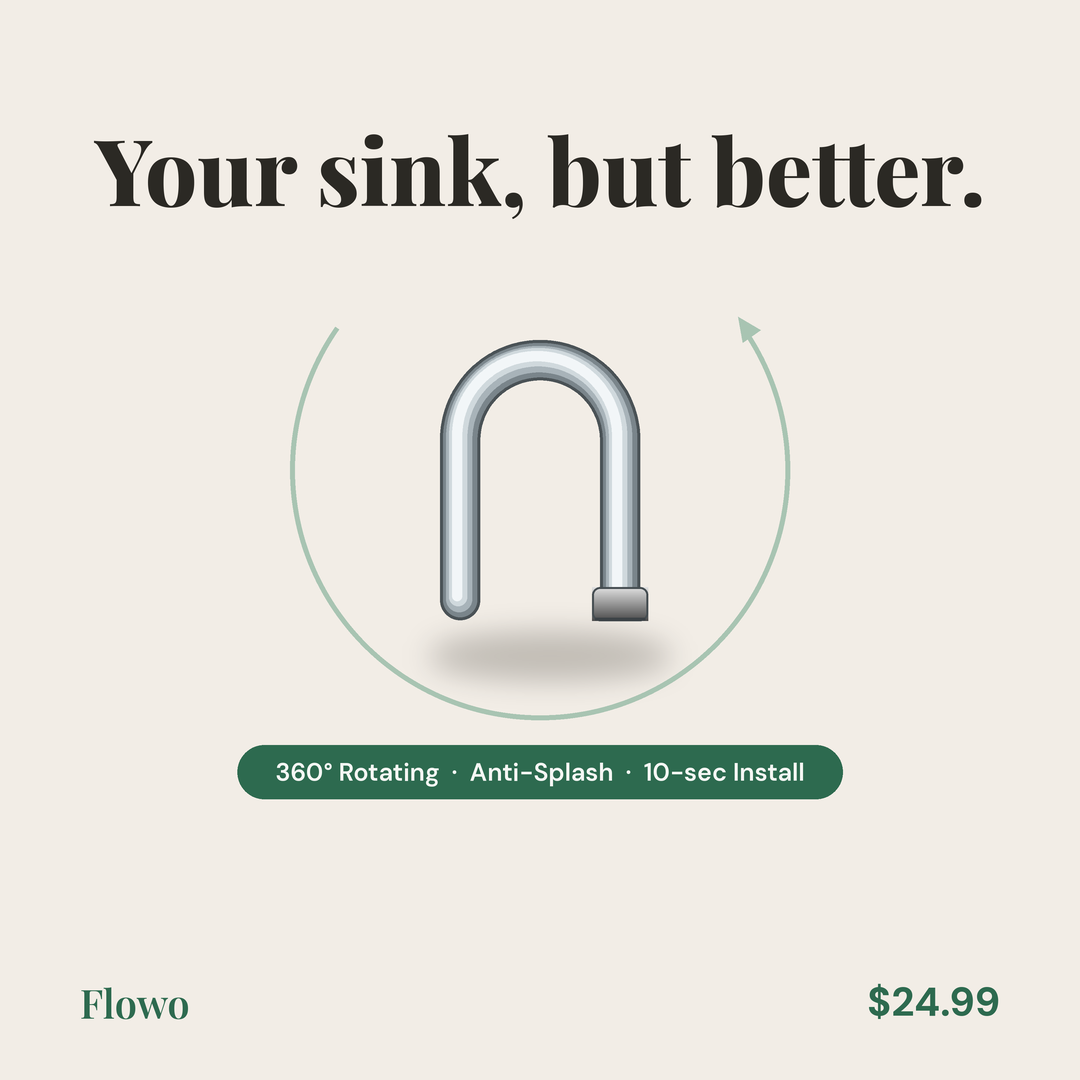
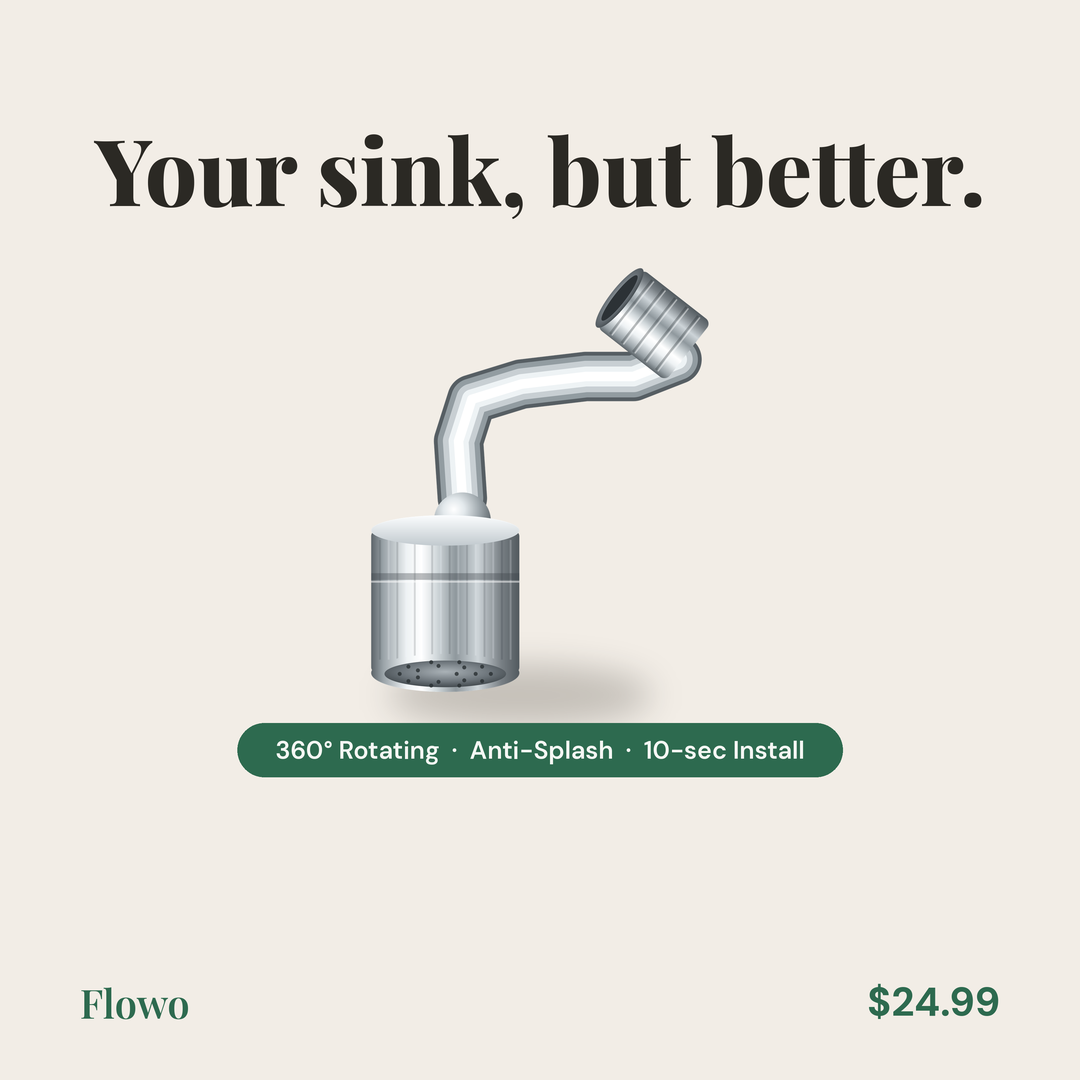
Redraw Flowo product as faithful chrome illustration
Replace the generic arch with an accurate chrome illustration of the actual
faucet extender (knurled swivel spray head + ball joint + gooseneck arm +
ribbed threaded collar), rendered from SVG gradients (tools/make_product.py)
and composited onto the cream canvas with height-based sizing and a soft
grounding shadow.

diff --git a/tools/make_product.py b/tools/make_product.py
@@ -1,0 +1,132 @@
+#!/usr/bin/env python3
+"""Build a clean chrome illustration of the Flowo faucet extender as SVG, render to PNG.
+
+Silhouette from the real product: a knurled cylindrical swivel spray-head (the
+business end, pointing down), a ball swivel joint (the 360deg rotation), a chrome
+gooseneck arm, and a ribbed threaded collar that screws onto the faucet.
+"""
+import math
+import cairosvg
+
+W = H = 760
+
+def chrome_defs():
+    return f"""
+  <defs>
+    <linearGradient id="chromeH" x1="0" y1="0" x2="1" y2="0">
+      <stop offset="0"    stop-color="#5d656a"/>
+      <stop offset="0.08" stop-color="#9aa3a8"/>
+      <stop offset="0.24" stop-color="#eef2f4"/>
+      <stop offset="0.34" stop-color="#ffffff"/>
+      <stop offset="0.44" stop-color="#d2d9dc"/>
+      <stop offset="0.57" stop-color="#8f989d"/>
+      <stop offset="0.72" stop-color="#cdd4d8"/>
+      <stop offset="0.88" stop-color="#787f84"/>
+      <stop offset="1"    stop-color="#525a5f"/>
+    </linearGradient>
+    <linearGradient id="capV" x1="0" y1="0" x2="0" y2="1">
+      <stop offset="0" stop-color="#fbfdfe"/>
+      <stop offset="1" stop-color="#c2cacf"/>
+    </linearGradient>
+    <radialGradient id="sphere" cx="0.35" cy="0.30" r="0.75">
+      <stop offset="0"    stop-color="#ffffff"/>
+      <stop offset="0.25" stop-color="#e3e9ec"/>
+      <stop offset="0.62" stop-color="#9aa3a8"/>
+      <stop offset="1"    stop-color="#4f575c"/>
+    </radialGradient>
+    <radialGradient id="recess" cx="0.5" cy="0.42" r="0.62">
+      <stop offset="0"   stop-color="#aab2b7"/>
+      <stop offset="0.6" stop-color="#6c747a"/>
+      <stop offset="1"   stop-color="#3c4347"/>
+    </radialGradient>
+  </defs>"""
+
+def head(cx, top, w, h):
+    """Knurled spray-head cylinder pointing down (outlet at bottom)."""
+    hw = w / 2
+    bot = top + h
+    rx = hw
+    out = [f'<g>']
+    # body
+    out.append(f'<rect x="{cx-hw:.1f}" y="{top:.1f}" width="{w:.1f}" height="{h:.1f}" '
+               f'rx="6" fill="url(#chromeH)"/>')
+    # vertical knurl (grip) lines
+    n = 17
+    for i in range(1, n):
+        x = cx - hw + i * (w / n)
+        shade = "#23292c" if i % 2 else "#f4f8fa"
+        op = 0.16 if i % 2 else 0.22
+        out.append(f'<line x1="{x:.1f}" y1="{top+10:.1f}" x2="{x:.1f}" y2="{bot-14:.1f}" '
+                   f'stroke="{shade}" stroke-width="2" opacity="{op}"/>')
+    # a darker seam band (the rotating collar ring) near the top third
+    bandY = top + h * 0.30
+    out.append(f'<rect x="{cx-hw:.1f}" y="{bandY:.1f}" width="{w:.1f}" height="7" '
+               f'fill="#3a4145" opacity="0.35"/>')
+    out.append(f'<rect x="{cx-hw:.1f}" y="{bandY+8:.1f}" width="{w:.1f}" height="2" '
+               f'fill="#ffffff" opacity="0.5"/>')
+    # top cap
+    out.append(f'<ellipse cx="{cx:.1f}" cy="{top:.1f}" rx="{rx:.1f}" ry="16" fill="url(#capV)"/>')
+    # bottom rim + recessed aerator face with spray holes
+    out.append(f'<ellipse cx="{cx:.1f}" cy="{bot:.1f}" rx="{rx:.1f}" ry="20" fill="url(#chromeH)"/>')
+    out.append(f'<ellipse cx="{cx:.1f}" cy="{bot+1:.1f}" rx="{rx-14:.1f}" ry="14" fill="url(#recess)"/>')
+    # spray holes grid
+    for ring_r, count in ((rx-30, 10), (rx-46, 7), (12, 1)):
+        for k in range(count):
+            a = 2*math.pi*k/count
+            hx = cx + ring_r*math.cos(a)
+            hy = bot+1 + (ring_r*0.27)*math.sin(a)
+            out.append(f'<circle cx="{hx:.1f}" cy="{hy:.1f}" r="2.1" fill="#2a3033" opacity="0.8"/>')
+    out.append('</g>')
+    return "\n".join(out)
+
+def arm(points, layers):
+    d = "M " + " L ".join(f"{x:.1f} {y:.1f}" for x, y in points)
+    out = []
+    for wdt, col in layers:
+        out.append(f'<path d="{d}" fill="none" stroke="{col}" stroke-width="{wdt}" '
+                   f'stroke-linecap="round" stroke-linejoin="round"/>')
+    return "\n".join(out)
+
+def collar(x, y, ang, w, ln):
+    """Ribbed threaded coupling that screws onto the faucet."""
+    hw = w/2
+    out = [f'<g transform="translate({x:.1f},{y:.1f}) rotate({ang:.1f})">']
+    out.append(f'<rect x="{-hw:.1f}" y="{-ln:.1f}" width="{w:.1f}" height="{ln:.1f}" rx="7" '
+               f'fill="url(#chromeH)"/>')
+    # thread rings
+    for i in range(1, 6):
+        yy = -ln + i*(ln/6)
+        out.append(f'<line x1="{-hw+3:.1f}" y1="{yy:.1f}" x2="{hw-3:.1f}" y2="{yy:.1f}" '
+                   f'stroke="#2a3033" stroke-width="2.4" opacity="0.32"/>')
+        out.append(f'<line x1="{-hw+3:.1f}" y1="{yy+2.6:.1f}" x2="{hw-3:.1f}" y2="{yy+2.6:.1f}" '
+                   f'stroke="#ffffff" stroke-width="1.4" opacity="0.45"/>')
+    # female opening at the far (faucet) end
+    out.append(f'<ellipse cx="0" cy="{-ln:.1f}" rx="{hw:.1f}" ry="10" fill="url(#recess)"/>')
+    out.append(f'<ellipse cx="0" cy="{-ln:.1f}" rx="{hw-9:.1f}" ry="6" fill="#2c3236"/>')
+    out.append('</g>')
+    return "\n".join(out)
+
+# ---------- compose ----------
+arm_pts = [(290, 360), (286, 300), (300, 256), (352, 240),
+           (420, 232), (470, 232), (516, 214)]
+arm_layers = [
+    (52, "#565e63"),
+    (44, "#929ca1"),
+    (33, "#c8cfd3"),
+    (21, "#eef3f5"),
+    (10, "#ffffff"),
+]
+
+svg = f"""<svg xmlns="http://www.w3.org/2000/svg" width="{W}" height="{H}" viewBox="0 0 {W} {H}">
+{chrome_defs()}
+{arm(arm_pts, arm_layers)}
+{collar(528, 206, -52, 78, 92)}
+<circle cx="290" cy="384" r="30" fill="url(#sphere)"/>
+{head(272, 394, 156, 150)}
+</svg>"""
+
+with open("/tmp/product.svg", "w") as f:
+    f.write(svg)
+cairosvg.svg2png(bytestring=svg.encode(), write_to="/tmp/product.png",
+                 output_width=3200, output_height=3200)
+print("rendered /tmp/product.png")

diff --git a/tools/flowo_post.py b/tools/flowo_post.py
@@ -28,95 +28,27 @@ def font(path, size, axes=None):
 img  = Image.new("RGB", (W, H), BG)
 draw = ImageDraw.Draw(img)
 
-# ============================================================ FAUCET
-# Built on its own RGBA layer so we can drop a soft shadow under it.
-fx = Image.new("RGBA", (W, H), (0, 0, 0, 0))
-fd = ImageDraw.Draw(fx)
+# ============================================================ PRODUCT
+# Faithful chrome illustration of the real faucet extender, rendered separately
+# (tools/make_product.py -> /tmp/product.png), here cropped, scaled and dropped
+# onto the canvas with a soft grounding shadow.
+prod = Image.open("/tmp/product.png").convert("RGBA")
+prod = prod.crop(prod.getbbox())                     # trim transparent margins
+PROD_H = s(424)                                       # target height on canvas
+scale = PROD_H / prod.height
+prod = prod.resize((int(prod.width * scale), PROD_H), Image.LANCZOS)
+px = (W - prod.width) // 2
+py = s(268)                                           # top of product block
 
-def stamp(d, pts, r, color, off=(0, 0)):
-    rr = s(r)
-    ox, oy = s(off[0]), s(off[1])
-    for (x, y) in pts:
-        cx, cy = s(x) + ox, s(y) + oy
-        d.ellipse([cx - rr, cy - rr, cx + rr, cy + rr], fill=color)
-
-# --- centred inverted-U arch path (the rotating arm) ---
-CX = 540
-LX, RX = 460, 620          # leg x positions  (centre 540)
-TOP_Y = 440                # where legs meet the arc
-BOT_Y = 600                # leg bottoms
-R = (RX - LX) / 2          # arc radius = 80
-
-path = []
-step = 0.6
-# left leg (bottom -> top)
-y = BOT_Y
-while y >= TOP_Y:
-    path.append((LX, y)); y -= step
-# semicircular shoulder, 180deg -> 0deg over the top
-t = math.pi
-while t >= 0:
-    path.append((CX + R * math.cos(t), TOP_Y - R * math.sin(t))); t -= step / R
-# right leg (top -> bottom)
-y = TOP_Y
-while y <= BOT_Y:
-    path.append((RX, y)); y += step
-
-# chrome tube: concentric layers dark(edge) -> bright(core)
-LAYERS = [
-    (20, (74, 82, 86),   (0, 0)),
-    (17, (122, 133, 139),(0, 0)),
-    (13, (168, 179, 185),(-1, -1)),
-    (9,  (208, 217, 221),(-2, -3)),
-    (5,  (242, 246, 248),(-3, -4)),
-]
-for r, col, off in LAYERS:
-    stamp(fd, path, r, col + (255,), off)
-
-# --- aerator / spout outlet on the right leg (distinguishes it as a faucet) ---
-aw, ah = 56, 34
-ax, ay = RX, BOT_Y + 4
-for i in range(s(ah)):                      # vertical chrome gradient top(light)->bottom(dark)
-    f = i / max(1, s(ah) - 1)
-    c = tuple(int(225 - f * 150) for _ in range(3))
-    yy = s(ay - ah / 2) + i
-    fd.line([(s(ax - aw / 2), yy), (s(ax + aw / 2), yy)], fill=c + (255,), width=1)
-# rounded chrome cap silhouette + dark base lip
-fd.rounded_rectangle([s(ax - aw / 2), s(ay - ah / 2), s(ax + aw / 2), s(ay + ah / 2)],
-                     radius=s(8), outline=(70, 78, 82, 255), width=s(2))
-fd.line([(s(ax - aw / 2 + 3), s(ay + ah / 2 - 2)), (s(ax + aw / 2 - 3), s(ay + ah / 2 - 2))],
-        fill=(60, 66, 70, 255), width=s(3))
-
-# ---- soft grounding shadow ----
+# soft grounding shadow beneath the product
 sh = Image.new("RGBA", (W, H), (0, 0, 0, 0))
 sd = ImageDraw.Draw(sh)
-sd.ellipse([s(LX - 30), s(BOT_Y + 34), s(RX + 50), s(BOT_Y + 78)], fill=(60, 55, 45, 70))
-sh = sh.filter(ImageFilter.GaussianBlur(s(14)))
-img.paste(Image.alpha_composite(Image.new("RGBA", (W, H), (0, 0, 0, 0)), sh), (0, 0), sh)
+scy = py + prod.height - s(24)
+sd.ellipse([W // 2 - s(150), scy, W // 2 + s(110), scy + s(54)], fill=(60, 55, 45, 65))
+sh = sh.filter(ImageFilter.GaussianBlur(s(16)))
+img.paste(sh, (0, 0), sh)
 
-# ---- faint 360 rotation arc (behind, very subtle) ----
-ring = Image.new("RGBA", (W, H), (0, 0, 0, 0))
-rd = ImageDraw.Draw(ring)
-RCX, RCY, RR = 540, 470, 250
-rd.arc([s(RCX - RR), s(RCY - RR), s(RCX + RR), s(RCY + RR)],
-       start=-35, end=215, fill=(168, 196, 178, 255), width=s(5))
-# clean arrowhead at the open end (~ -35 deg) indicating rotation
-a = math.radians(-35)
-tx, ty = RCX + RR * math.cos(a), RCY + RR * math.sin(a)   # tip on the arc
-tang = (math.cos(a - math.pi / 2), math.sin(a - math.pi / 2))  # tangential dir
-rad = (math.cos(a), math.sin(a))                                # radial dir
-L, Wd = 24, 11
-tip  = (tx + tang[0] * L * 0.5,  ty + tang[1] * L * 0.5)
-back = (tx - tang[0] * L * 0.5,  ty - tang[1] * L * 0.5)
-b1 = (back[0] + rad[0] * Wd, back[1] + rad[1] * Wd)
-b2 = (back[0] - rad[0] * Wd, back[1] - rad[1] * Wd)
-rd.polygon([(s(tip[0]), s(tip[1])), (s(b1[0]), s(b1[1])), (s(b2[0]), s(b2[1]))],
-           fill=(168, 196, 178, 255))
-img.paste(ring, (0, 0), ring)
-
-# faucet on top of ring + shadow
-img.paste(fx, (0, 0), fx)
-
+img.paste(prod, (px, py), prod)
 draw = ImageDraw.Draw(img)
 
 # ============================================================ HEADLINE
@@ -134,7 +66,7 @@ badge = "360° Rotating  ·  Anti-Splash  ·  10-sec Install"
 bf = font(DMSANS, 25, [14, 600])
 bw = draw.textlength(badge, font=bf)
 padx, padyh = s(38), s(27)
-cyb = s(772)
+cyb = py + prod.height + s(58)                         # sit just below the product
 x0, x1 = W // 2 - bw // 2 - padx, W // 2 + bw // 2 + padx
 draw.rounded_rectangle([x0, cyb - padyh, x1, cyb + padyh],
                        radius=(cyb + padyh) - (cyb - padyh), fill=GREEN)
